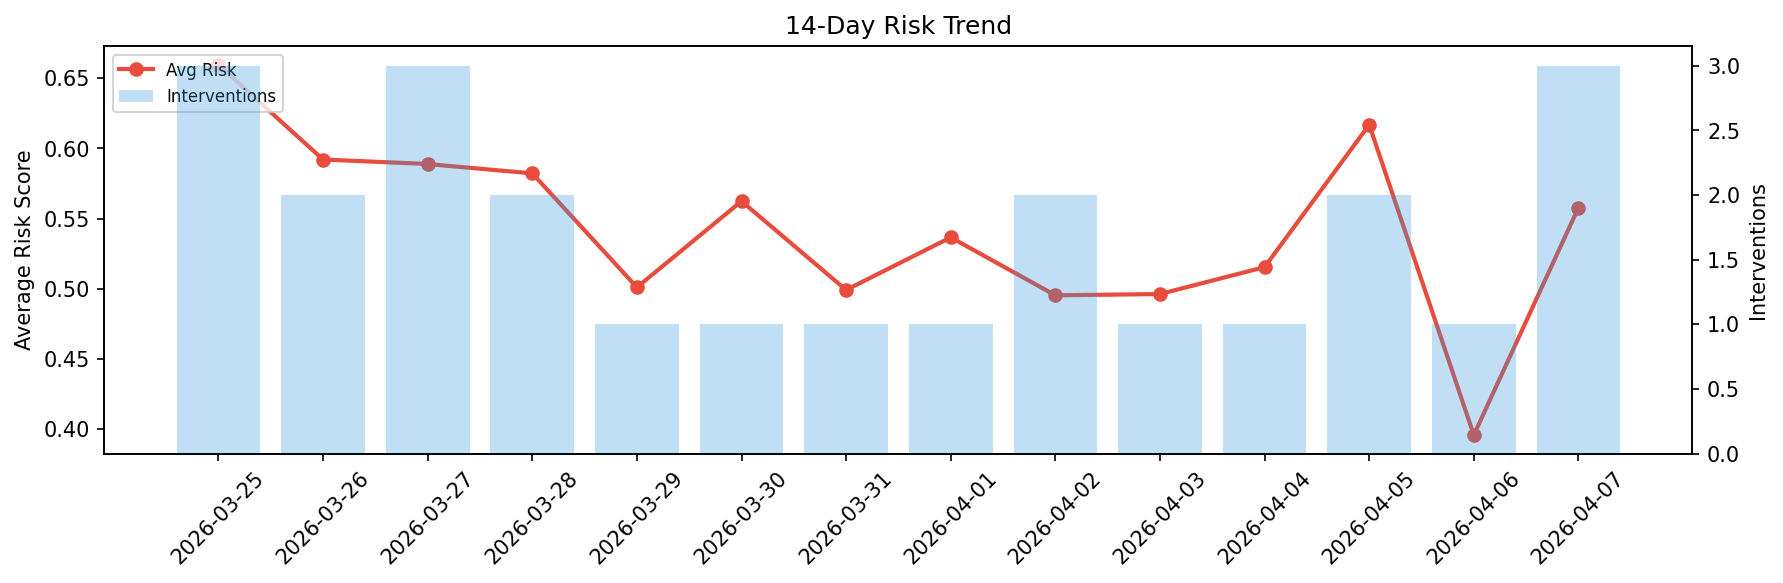
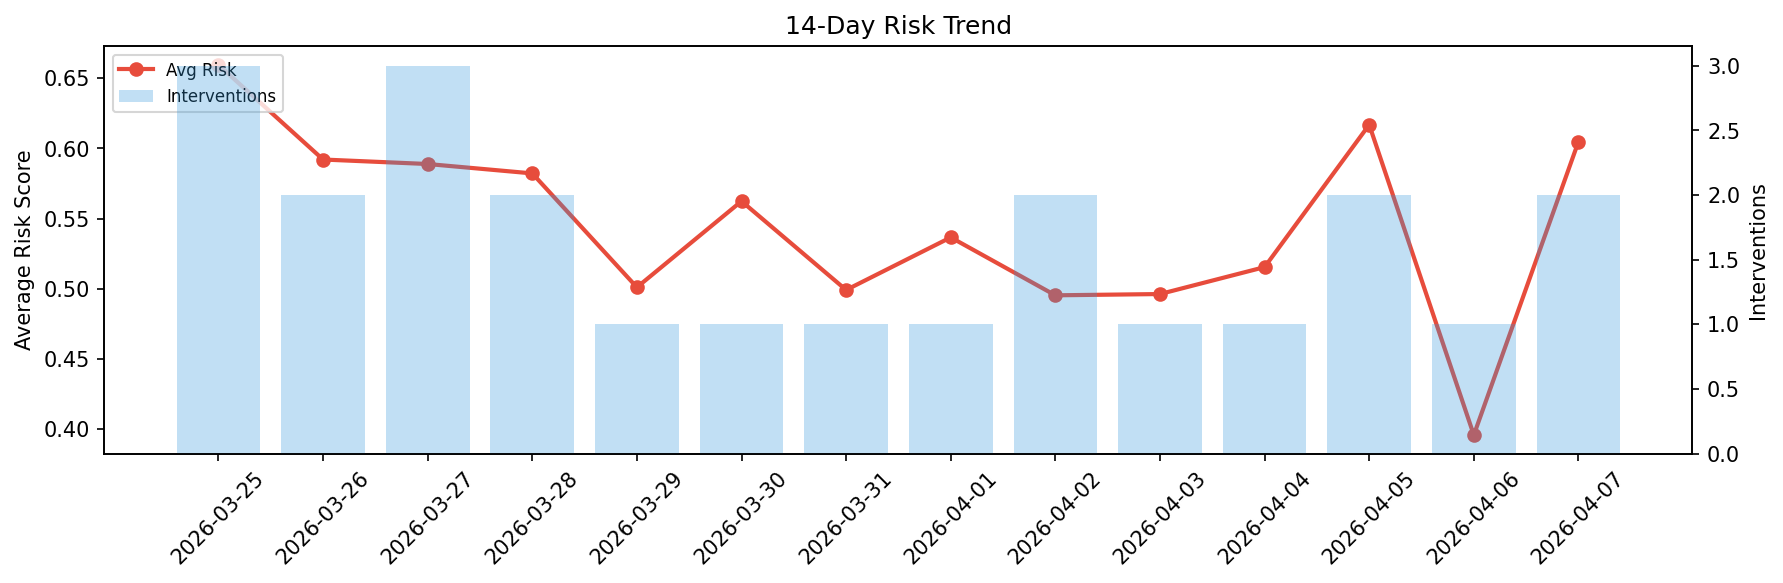
agent-improvement: daily cycle 2026-04-07T15:43

Changed region(s): [[0.8637, 0.0926, 0.9254, 0.4322], [0.8329, 0.494, 0.8637, 0.6792]]

diff --git a/logs/2026-04-07.md b/logs/2026-04-07.md
@@ -1,6 +1,6 @@
 # Agent Improvement Report — 2026-04-07
 
-**Cycle ID:** `5a6c9b83` | **Avg Risk:** 0.5578 | **Interventions:** 3/4
+**Cycle ID:** `c9f89eb2` | **Avg Risk:** 0.6048 | **Interventions:** 2/4
 
 ![Dashboard](2026-04-07_dashboard.png)
 
@@ -10,18 +10,18 @@
 
 | Domain | Risk Score | Decision | Alerts |
 |--------|-----------|----------|--------|
-| code_review | 0.6204 | intervene | coverage |
-| incident_response | 0.2297 | monitor | none |
-| data_pipeline | 0.6062 | intervene | schema_drift |
-| deployment | 0.7748 | intervene | rollback_rate, canary_error |
+| code_review | 0.3702 | monitor | none |
+| incident_response | 0.4823 | monitor | blast_radius |
+| data_pipeline | 0.7813 | intervene | schema_drift, volume_anomaly |
+| deployment | 0.7855 | intervene | rollback_rate, canary_error |
 
 ## Delta vs Yesterday
 
 | Domain | Today | Yesterday | Change |
 |--------|-------|-----------|--------|
-| code_review | 0.6204 | 0.7764 | 📉 -20.1% |
-| incident_response | 0.2297 | 0.1984 | 📈 15.8% |
-| data_pipeline | 0.6062 | 0.2445 | 📈 147.9% |
-| deployment | 0.7748 | 0.3633 | 📈 113.3% |
+| code_review | 0.3702 | 0.7764 | 📉 -52.3% |
+| incident_response | 0.4823 | 0.1984 | 📈 143.1% |
+| data_pipeline | 0.7813 | 0.2445 | 📈 219.6% |
+| deployment | 0.7855 | 0.3633 | 📈 116.2% |
 
 **Refinement:** `{'adjustment': 'tighten_thresholds', 'trend': 'degrading', 'window': 4}`
